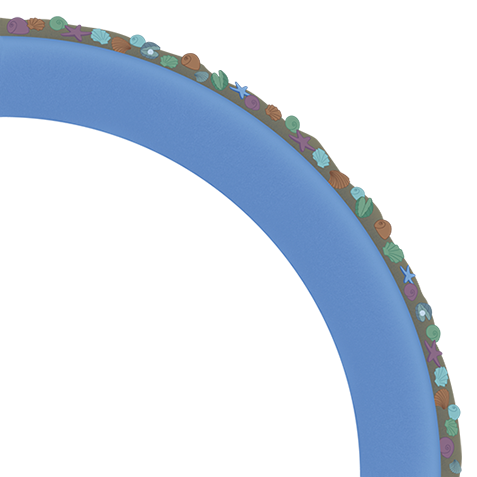
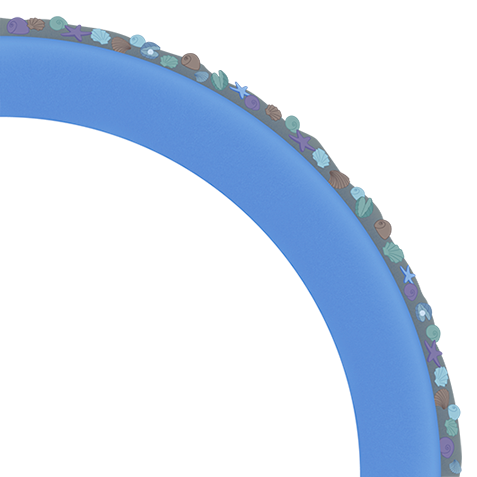
colors of water optimized

Changed region(s): [[0.0, 0.0294, 0.9686, 1.0]]

diff --git a/client/obacht/assets/css/obacht.css b/client/obacht/assets/css/obacht.css
@@ -58,12 +58,12 @@ html {
 .water {
     background-image: none;
     background: #002cad; /* Old browsers */
-    background: -moz-linear-gradient(24deg,  #66a4ed 0%, #1b4db0 30%, #002cad 48%, #002cad 52%, #1b4db0 70%, #66a4ed 100%); /* FF3.6+ */
-    background: -webkit-gradient(linear, left bottom, right top, color-stop(0%,#66a4ed), color-stop(30%,#1b4db0), color-stop(48%,#002cad), color-stop(52%,#002cad), color-stop(70%,#1b4db0), color-stop(100%,#66a4ed)); /* Chrome,Safari4+ */
-    background: -webkit-linear-gradient(24deg,  #66a4ed 0%,#1b4db0 30%,#002cad 48%,#002cad 52%,#1b4db0 70%,#66a4ed 100%); /* Chrome10+,Safari5.1+ */
-    background: -o-linear-gradient(24deg,  #66a4ed 0%,#1b4db0 30%,#002cad 48%,#002cad 52%,#1b4db0 70%,#66a4ed 100%); /* Opera 11.10+ */
-    background: -ms-linear-gradient(24deg,  #66a4ed 0%,#1b4db0 30%,#002cad 48%,#002cad 52%,#1b4db0 70%,#66a4ed 100%); /* IE10+ */
-    background: linear-gradient(24deg,  #66a4ed 0%,#1b4db0 30%,#002cad 48%,#002cad 52%,#1b4db0 70%,#66a4ed 100%); /* W3C */
+    background: -moz-linear-gradient(24deg,  #66a4ed 0%, #2464af 30%, #00428d 48%, #00428d 52%, #2464af 70%, #66a4ed 100%); /* FF3.6+ */
+    background: -webkit-gradient(linear, left bottom, right top, color-stop(0%,#66a4ed), color-stop(30%,#2464af), color-stop(48%,#00428d), color-stop(52%,#00428d), color-stop(70%,#2464af), color-stop(100%,#66a4ed)); /* Chrome,Safari4+ */
+    background: -webkit-linear-gradient(24deg,  #66a4ed 0%,#2464af 30%,#00428d 48%,#00428d 52%,#2464af 70%,#66a4ed 100%); /* Chrome10+,Safari5.1+ */
+    background: -o-linear-gradient(24deg,  #66a4ed 0%,#2464af 30%,#00428d 48%,#00428d 52%,#2464af 70%,#66a4ed 100%); /* Opera 11.10+ */
+    background: -ms-linear-gradient(24deg,  #66a4ed 0%,#2464af 30%,#00428d 48%,#00428d 52%,#2464af 70%,#66a4ed 100%); /* IE10+ */
+    background: linear-gradient(24deg,  #66a4ed 0%,#2464af 30%,#00428d 48%,#00428d 52%,#2464af 70%,#66a4ed 100%); /* W3C */
     filter: progid:DXImageTransform.Microsoft.gradient( startColorstr='#66a4ed', endColorstr='#66a4ed',GradientType=1 ); /* IE6-9 fallback on horizontal gradient */
 }
 
